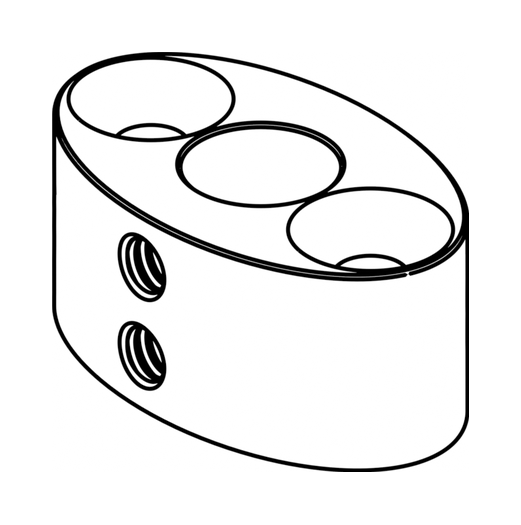
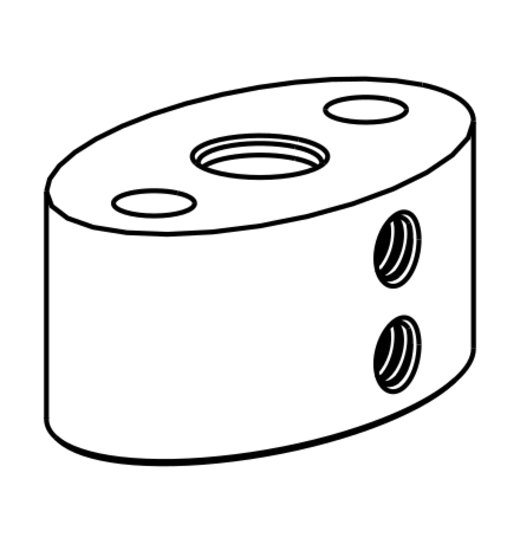
Rework rail install guide: bracket naming, mounting steps, kit
- Rename overhead/vertical brackets to underside/side brackets and
  update the kit grid descriptions and drop-down pipe count and length.
- Split fastening into wood screws, through bolts and tapped holes,
  with thickness limits for each. Add steel or aluminum 1/2" minimum.
- Make the guide work without a site plan, and drop Focal-specific
  contact language and the extra swing warning.
- Merge the set-screw and fastener post-mount checks into one item.
- Refresh the rail block and parallel bracket kit diagrams and enlarge
  the kit image area so the parts are easier to see.
- Add a /preview skill that reuses or starts a local Jekyll server and
  posts the page URL.

Changed region(s): [[0.0615, 0.0914, 0.9231, 0.9143], [0.7692, 0.2438, 0.8, 0.2743]]

diff --git a/assets/style.css b/assets/style.css
@@ -492,7 +492,7 @@ h2[id], h3[id] {
 .kit-grid { display: grid; grid-template-columns: repeat(3, 1fr); gap: 12px; margin: 10px 0 18px; }
 @media (max-width: 520px) { .kit-grid { grid-template-columns: repeat(2, 1fr); } }
 .kit-card { margin: 0; border: 1px solid var(--line); border-radius: var(--radius); overflow: hidden; background: var(--paper); display: flex; flex-direction: column; }
-.kit-img { height: 140px; display: flex; align-items: center; justify-content: center; padding: 8px; border-bottom: 1px solid var(--line-soft); }
+.kit-img { height: 172px; display: flex; align-items: center; justify-content: center; padding: 6px; border-bottom: 1px solid var(--line-soft); }
 main .kit-img img, main .kit-img img[src$=".png"] { border: 0; border-radius: 0; max-width: 100%; max-height: 100%; object-fit: contain; display: block; }
 .kit-card figcaption { display: flex; flex-direction: column; gap: 2px; padding: 8px 10px; font-size: 15px; line-height: 1.35; }
 .kit-name { font-weight: 700; }

diff --git a/_guides/rail-installation.md b/_guides/rail-installation.md
@@ -10,6 +10,7 @@ updated: "2026-10-15"
 
 
 ## On this page
+
 - [Before you start](#before-you-start)
 - [About the rails](#about-the-rails)
 - [Rail placement over the table](#rail-placement-over-the-table)
@@ -17,20 +18,21 @@ updated: "2026-10-15"
 - [Choose your mounting](#choose-your-mounting)
 - [Gather the kit and tools](#gather-the-kit-and-tools)
 - [Mount the rail](#mount-the-rail)
+- [Different mounting methods](#different-mounting-methods)
 - [Post-mount checks](#post-mount-checks)
 - [Plug in the rail](#plug-in-the-rail)
 
-{% include diagram.html src="rail-03-rail-mounted.png" caption="The finished install, overhead mount shown: the rail hangs level from two brackets on drop-down pipes." %}
+{% include diagram.html src="rail-03-rail-mounted.png" caption="The finished install, underside bracket shown: the rail hangs level from two brackets on drop-down pipes." %}
 
 ## Before you start
 
-Read [Safety & Clearances]({{ site.baseurl }}/safety-and-clearances/) first, and confirm each rail's location and length against the site plan.
+Read [Safety & Clearances]({{ site.baseurl }}/safety-and-clearances/) first. If you have a site plan, confirm each rail's location, length and height against it. If you don't, decide those three before you mount anything.
 
 - **Opening end:** heaters slide on at the end opposite the cord-exit end. Leave at least 4" past it, clear of walls, posts and beams.
 - **Power:** the rail has an 8-foot cable at the cord-exit end, so that end must face the outlet. If it can't reach, use a 12 AWG or heavier extension cord. See [Electrical & Power]({{ site.baseurl }}/electrical-power/).
 - **Helper:** a second person isn't required, but it makes lifting the rail much easier.
 
-{% include dodont.html do="Confirm the mounting surface is solid and can hold 300 lb. For steel or concrete, bring your own fasteners rated for 150 lb at each bracket." dont="Mount to anything that flexes or isn't rated for the load." %}
+{% include dodont.html do="Confirm the mounting surface is solid and can hold 300 lb. For concrete, bring your own fasteners rated for 150 lb at each bracket." dont="Mount to anything that flexes or isn't rated for the load." %}
 
 {% include warn.html text="Do not power on the rail until mounting is complete and clearances are verified." %}
 
@@ -44,9 +46,9 @@ The T-slot on top takes the mounting hardware. The heaters slide onto a separate
 
 ## Rail placement over the table
 
-Ideally the rail runs down the center of the table, so heat hits the middle of each guest's chest, not the top of their head. If the rail has to be off-center, Focal can angle the heaters toward the guests. Contact Focal to arrange it.
+Ideally the rail runs down the center of the table, so heat hits the middle of each guest's chest, not the top of their head. If the rail has to be off-center, heaters can be angled towards the guests.
 
-{% include diagram.html src="rail-placement.png" caption="Center the rail over the table. If it has to be off-center, Focal can angle the heaters toward guests." %}
+{% include diagram.html src="rail-placement.png" caption="Center the rail over the table. If it has to be off-center, heaters can be angled toward guests." %}
 
 ## Watch the video
 
@@ -60,20 +62,24 @@ Make two choices: a bracket type, then a fastening method. The tools for each ar
 
 ### Bracket type
 
-| Bracket | Use on |
-|---|---|
-| Overhead bracket | Underside of a beam, joist or ceiling |
-| Vertical bracket | Side of a beam, joist or wall |
+
+| Bracket           | Use on                       |
+| ----------------- | ---------------------------- |
+| Underside bracket | Underside of a beam or joist |
+| Side bracket      | Side of a beam or joist      |
+
 
 ### Fastening method
 
-| Method | Use when |
-|---|---|
-| Wood screws | Solid wood at least 1.5" thick, and you can't reach the far side |
-| Through bolts | You can reach the far side of the beam, post or wall, and it is no more than 2" thick. For thicker, bring longer 1/4-20 bolts. |
-| Tapped holes | Metal thick enough for a 1/4-20 tap to hold 150 lb at each bracket |
 
-Can't reach the far side, and the wood isn't solid? Don't mount here. Contact Focal. For concrete, supply your own fasteners rated for 150 lb at each bracket. None of these fit your site? See [Different mounting methods](#different-mounting-methods).
+| Method        | Use when                                                                                                                       |
+| ------------- | ------------------------------------------------------------------------------------------------------------------------------ |
+| Wood screws   | Solid wood at least 1.5" thick, and you can't reach the far side                                                               |
+| Through bolts | You can reach the far side of the beam, joist or post, and it is no more than 2" thick. For thicker, bring longer 1/4-20 bolts. |
+| Tapped holes  | Steel or aluminum at least 1/2" thick, so the tapped 1/4-20 hole supports 150 lb at each bracket                               |
+
+
+For concrete, supply your own fasteners rated for 150 lb at each bracket. None of these fit your site? See [Different mounting methods](#different-mounting-methods).
 
 ## Gather the kit and tools
 
@@ -81,11 +87,11 @@ Can't reach the far side, and the wood isn't solid? Don't mount here. Contact Fo
 
 The overhead mounting kit includes two pre-built rail block assemblies, two of each bracket type, plus fasteners for all three fastening methods. Use two brackets per rail.
 
-{% include kitgrid.html items="kit-rail-block.png|Rail block assembly|2|Fully assembled. The T-nuts, T-nut screws and set screws are already in place ;; kit-parallel-bracket.png|Overhead bracket|2|Underside of beam, joist or ceiling ;; kit-perpendicular-bracket.png|Vertical bracket|2|Side of beam, joist or wall ;; kit-set-screw.png|Set screw, 1/4-20 x 5/16\"|4|Clamps the pipe in the bracket. Thread two into each bracket ;; kit-dropdown-pipe.png|Dropdown pipe, 6 ft|1|Cut into two drops that hang the rail ;; kit-wood-screw.png|Wood screw, #12 x 2\" and 3\"|4 of each length|For wood screws ;; kit-flat-head-screw.png|Machine screw, 1/4-20 x 1.5\", 2.5\" and 3.5\"|4 of each length|For through bolts and tapped holes ;; kit-washer.png|SAE washer, 1/4\" ID|4|For through bolts ;; kit-lock-nut.png|Nylon lock nut, 1/4-20|4|For through bolts" %}
+{% include kitgrid.html items="kit-rail-block.png|Rail block assembly|2|Slides into the rail's T-slot and clamps the pipe ;; kit-parallel-bracket.png|Underside bracket|2|Mounts to the underside of a beam or joist ;; kit-perpendicular-bracket.png|Side bracket|2|Mounts to the side of a beam or joist ;; kit-set-screw.png|Set screw, 1/4-20 x 5/16\"|4|Clamps the pipe in the bracket ;; kit-dropdown-pipe.png|Drop-down pipe, 3 ft|2|Cut to length to hang the rail ;; kit-wood-screw.png|Wood screw, #12 x 2\" and 3\"|4 of each length|Fastens brackets to solid wood ;; kit-flat-head-screw.png|Machine screw, 1/4-20 x 1.5\", 2.5\" and 3.5\"|4 of each length|Fastens brackets with a nut (through bolt) or into a tapped hole ;; kit-washer.png|SAE washer, 1/4\" ID|4|Sits under the lock nut ;; kit-lock-nut.png|Nylon lock nut, 1/4-20|4|Secures a through bolt on the far side" %}
 
 ### Overhead mounting kit tools
 
-{% include kitgrid.html items="kit-tool-l-wrench-1-8.png|1/8\" L-wrench|1|Set screws ;; kit-tool-l-wrench-t30.png|T30 L-wrench|1|Machine screws, T-nut screws ;; kit-tool-t25-bit.png|T25 screwdriver bit|1|Wood screws" %}
+{% include kitgrid.html items="kit-tool-l-wrench-1-8.png|1/8\" L-wrench|1|Tightens set screws ;; kit-tool-l-wrench-t30.png|T30 L-wrench|1|Tightens machine screws and T-nut screws ;; kit-tool-t25-bit.png|T25 screwdriver bit|1|Drives wood screws" %}
 
 ### What to bring
 
@@ -101,35 +107,39 @@ Bring these for every install:
 
 Then add the tools for the choices you made:
 
-| If you chose | Also bring |
-|---|---|
-| Overhead bracket | Nothing extra |
-| Vertical bracket | 3/8" support-shaft bit |
-| Wood screws | Pilot bit for #12 screws (size depends on your wood, so check a pilot hole chart) |
-| Through bolts | Through-hole bit for 1/4-20 bolts<br>7/16" wrench or socket |
-| Tapped holes | 1/4-20 tap<br>Matching tap-drill bit |
+
+| If you chose     | Also bring                                                   |
+| ---------------- | ------------------------------------------------------------ |
+| Underside bracket | Nothing extra                                                |
+| Side bracket | 3/8" drill bit for support shaft                             |
+| Wood screws      | Drill bit for #12 screw pilot holes                          |
+| Through bolts    | Drill bit for 1/4-20 through holes<br>7/16" wrench or socket |
+| Tapped holes     | 1/4-20 tap<br>Drill bit for 1/4-20 tap                       |
 
 
 ## Mount the rail
 
-<!-- 2" max for through bolts: 3.5" screw - bracket (19.69 mm overhead, 25 mm vertical) - SAE washer (~0.065") - nylon lock nut (~0.33"). Gives 2.33" overhead, 2.12" vertical; rounded down. Washer/nut thickness are typical values, not measured. -->
+<!-- 2" max for through bolts: 3.5" screw - bracket (19.69 mm underside, 25 mm side) - SAE washer (~0.065") - nylon lock nut (~0.33"). Gives 2.33" underside, 2.12" side; rounded down. Washer/nut thickness are typical values, not measured. -->
+
+<!-- 1/2" min for tapped holes: 1.5" screw - bracket (0.775" underside, 0.984" side) leaves 0.73" / 0.52" of screw in the metal. 1/2" gives ~10 threads of engagement. Unverified against a pull test. -->
+
 <!-- Bit sizes are deliberately not specified except the 3/8" support-shaft bit and the 7/16" nut wrench -->
+
 <!-- Through-bolt sequence (screw through bracket, washer + lock nut on far side) is unconfirmed -->
-{% include stepcols.html number="1" title="Fasten the brackets" body="Fasten both brackets, spaced to match where the rail blocks will sit, about 12\" in from each end of the rail. The diagrams show wood screws. Use the longest screw that stays in the wood without poking through. Tighten with the T25 bit." cols="Overhead bracket|rail-02a-screw-bracket.png|Drill a pilot hole at each bracket hole, then fasten the overhead bracket with one screw in each hole. ;; Vertical bracket|rail-02b-drill-hole.png,rail-02b-screw-bracket.png|Using the support-shaft bit, drill a hole 1/2\" deep. It takes the bracket's support shaft only.//Drill a pilot hole at each bracket hole, then fasten the vertical bracket flat with one screw in each hole." %}
 
-{% include step.html variant="true" title="Through bolts instead of wood screws" body="Use this in place of the wood screws in step 1. At each bracket hole, drill all the way through with the through-hole bit. Pass a machine screw through the bracket and the beam, then add a washer and lock nut on the far side. Pick a screw long enough that its end is at least flush with the nut. Tighten with the T30 L-wrench, holding the nut with the 7/16\" wrench or socket." %}
+{% include stepcols.html number="1" title="Fasten the brackets with wood screws" body="Fasten both brackets about 12\" in from each end of the rail, spaced to match where the rail blocks will sit. Use the 3\" screw unless it would poke through the back of the wood, then use the 2\"." cols="Underside bracket|rail-02a-screw-bracket.png|Drill a pilot hole at each bracket hole. Fasten the underside bracket with one screw in each hole, using the T25 bit. ;; Side bracket|rail-02b-drill-hole.png,rail-02b-screw-bracket.png|Using the support-shaft bit, drill a hole 1/2\" deep. It takes the bracket's support shaft only.//Drill a pilot hole at each bracket hole. Fasten the side bracket flush against the surface with one screw in each hole, using the T25 bit." %}
 
-{% include step.html variant="true" title="Tapped holes instead of wood screws" body="Use this in place of the wood screws in step 1. At each bracket hole, drill through the metal with the tap-drill bit, then tap it with the 1/4-20 tap. Thread a machine screw through the bracket and into the tapped hole. No washer or nut. Pick a screw long enough to thread fully into the tapped hole. Tighten with the T30 L-wrench." %}
+{% include step.html variant="true" title="Through bolts instead of wood screws" body="Use when you can reach the far side. For the side bracket, still drill the 1/2\" support-shaft hole first. Drill through the beam at each bracket hole, then bolt through with a machine screw, washer and lock nut. Use the 2.5\" screw for a beam up to 1\" thick, or the 3.5\" up to 2\". Tighten with the T30 L-wrench while holding the nut with the 7/16\" wrench. Thread the nut on fully." %}
 
-{% include step.html number="2" title="Insert the pipes" body="Fit a pipe in each bracket. Cut both pipes to the same length so the rail hangs level at the site plan height. Measure from the top of the bracket down to the rail height on the site plan, then subtract 2.25\" for the rail. The pipe runs all the way through the bracket, so the bracket's height doesn't change the length. Deburr the cuts." captions="Slide the dropdown pipe into the bracket (overhead bracket shown).|Tighten both set screws with the 1/8\" L-wrench, using the full handle until they stop." diagram="rail-02a-insert-pipe.png,rail-02a-set-screws.png" grid="true" %}
+{% include step.html variant="true" title="Tapped holes instead of wood screws" body="Use for steel or aluminum at least 1/2\" thick. For the side bracket, still drill the 1/2\" support-shaft hole first. Drill each bracket hole with the tap-drill bit, tap it with the 1/4-20 tap, and thread in a 1.5\" machine screw with the T30 L-wrench." %}
 
-{% include step.html number="3" title="Slide the rail blocks onto the rail" body="Keep the T-nut screws on top loose so the blocks can slide, and make sure the set screws are backed out enough for the pipe to fit." captions="Slide a rail block into the T-slot, set screws facing away from diners.|Use two per rail, spaced to match the brackets you installed above." diagram="rail-01-slide-block.png,rail-01-blocks-placed.png" %}
+{% include step.html number="2" title="Insert the pipes" body="Fit a pipe in each bracket. Cut both pipes to the same length so the rail hangs level at the planned height, at least the minimum in Safety & Clearances. Measure from the top of the bracket down to your planned rail height (from the site plan, if you have one), then subtract 2.25\" for the rail. The pipe runs all the way through the bracket, so the bracket's height doesn't change the length. Deburr the cuts." captions="Slide the drop-down pipe into the bracket (underside bracket shown).|Tighten both set screws with the 1/8\" L-wrench, using the full handle until they stop." diagram="rail-02a-insert-pipe.png,rail-02a-set-screws.png" grid="true" %}
 
-{% include step.html number="4" title="Attach the rail to the pipes" after="Make sure the pipes hang straight down and give the rail a shake to confirm it's solid." captions="Lift the rail up under the pipes with a second person.|Slide each block under its pipe, then lift so the pipe seats in the block.|Tighten the block's set screws with the 1/8\" L-wrench, using the full handle until they stop.|Tighten the two T-nut screws on top with the T30 L-wrench." diagram="rail-03-raise-rail.png,rail-03-rail-mounted.png,rail-03-set-screws.png+rail-03-tnut-screws.png" %}
+{% include step.html number="3" title="Slide the rail blocks onto the rail" body="Keep the T-nut screws on top loose so the blocks can slide, and make sure the set screws are backed out enough for the pipe to fit." captions="Slide a rail block into the T-slot, set screws facing away from guests.|Use two per rail, spaced to match the brackets you installed above." diagram="rail-01-slide-block.png,rail-01-blocks-placed.png" %}
 
-{% include step.html number="5" title="Re-check all set screws" body="Go back to every mount and re-tighten each set screw with the 1/8\" L-wrench, using the full handle until it stops."%}
+{% include step.html number="4" title="Attach the rail to the pipes" after="Make sure the pipes hang straight down and give the rail a shake to confirm it's solid." captions="Lift the rail up under the pipes, ideally with a second person.|Slide each block under its pipe, then lift so the pipe seats in the block.|Tighten the block's set screws with the 1/8\" L-wrench, using the full handle until they stop.|Tighten the two T-nut screws on top with the T30 L-wrench." diagram="rail-03-raise-rail.png,rail-03-rail-mounted.png,rail-03-set-screws.png+rail-03-tnut-screws.png" %}
 
-{% include warn.html text="Under-tightened set screws will allow the rail to drop under load." %}
+{% include step.html number="5" title="Re-check all set screws" body="Go back to every mount and re-tighten each set screw with the 1/8\" L-wrench, using the full handle until it stops." %}
 
 ## Different mounting methods
 
@@ -137,20 +147,19 @@ Focal offers mounting hardware, but off-the-shelf hardware also works through th
 
 - A threaded rod as a drop-down
 - A U-bolt to attach unistrut to a pipe
-- Attaching the rail directly to a wood beam with through bolts, without a drop-down, using the longer 1/4-20 machine screws with SAE washers and nylon lock nuts
+- Attaching the rail directly to a wood beam with through bolts, without a drop-down, using 1/4-20 machine screws and SAE washers
 - An L-bracket to unistrut when rails run perpendicular to a wall
 
 ## Post-mount checks
 
-{% include checklist.html items="Every set screw re-tightened with the full handle of the 1/8\" L-wrench, on every bracket and block | All other fasteners fully tightened | Pipes plumb and rail level | Rail height and location match the site plan | All clearances in Safety & Clearances are met | Rail swings no more than 1/4\" from rest in either direction" %}
+{% include checklist.html items="Every fastener fully tightened, with set screws re-tightened using the full handle of the 1/8\" L-wrench, and the rail swings no more than 1/4\" from rest in either direction | Pipes plumb and rail level | Rail height and location match the site plan or your planned layout | All clearances in Safety & Clearances are met" %}
 
 {% include warn.html text="Under-tightened set screws will allow the rail to drop under load." %}
 
-{% include warn.html text="If the rail swings more than 1/4\", add aircraft cable or bracketing to stiffen the assembly before loading heaters." %}
 
 ## Plug in the rail
 
 {% include dodont.html do="Plug into a dedicated, GFCI-protected outdoor outlet on its own circuit. If the cable can't reach, use an extension cord rated 12 AWG or heavier." dont="Use a power strip, a lighter extension cord, or a circuit shared with other loads." %}
 
-Run the cable along the rail, up the mounting hardware, or along parklet features so it stays out of sight from diners and the street. Plug into the outlet, then turn on the rail switch. It's on the cord-exit end, underneath the rail. Secure any slack with clips or ties so nothing hangs below the bottom of the rail.
+Run the cable along the rail, up the mounting hardware, or along posts and beams so it stays out of sight from guests. Plug into the outlet, then turn on the rail switch. It's on the cord-exit end, underneath the rail. Secure any slack with clips or ties so nothing hangs below the bottom of the rail.
 

diff --git a/.agents/skills/preview/SKILL.md b/.agents/skills/preview/SKILL.md
@@ -1,0 +1,37 @@
+---
+name: preview
+description: Preview the site on a local Jekyll server and post the page URL. Use when the user says "preview", "show me", "let me see it", or asks to view a page or guide locally.
+argument-hint: "[page path, e.g. guides/rail-installation]"
+---
+
+# Preview the site
+
+"Preview" means the local Jekyll server, never an Artifact.
+
+## Steps
+
+1. **Reuse a running server for this worktree.** Other worktrees run their own Jekyll servers, so match on working directory, not just process name:
+
+   ```bash
+   for pid in $(pgrep -f 'jekyll serve'); do
+     [ "$(readlink /proc/$pid/cwd)" = "$PWD" ] && echo "$pid $(tr '\0' ' ' < /proc/$pid/cmdline)"
+   done
+   ```
+
+   If one is found, read its `--port` and skip to step 3. Jekyll's auto-regeneration picks up edits, so no restart is needed.
+
+2. **Otherwise start one.** Pick a free port (4000-4999 range; check with `ss -ltn`) and run in the background so it survives the turn:
+
+   ```bash
+   bundle exec jekyll serve --baseurl "" --port <PORT> --livereload
+   ```
+
+   Fall back to plain `jekyll serve` if there is no Gemfile. Always pass `--baseurl ""`; `_config.yml` sets `baseurl: "/"`, which breaks asset paths locally. Wait until the log shows `Server running` (use Monitor or an until-loop) before posting the URL. If the build fails, report the error instead of a URL.
+
+3. **Post the URL.** Always state the full page URL, e.g. `http://localhost:<PORT>/rail-installation/`. If the user gave a page argument, link that page; otherwise link the page most recently edited this session, or the root. Never stop the server afterwards. Leave it running.
+
+## Notes
+
+- Guides live in `_guides/` and are served at `/<name>/` (collection permalink is `/:name/`, not `/guides/<name>/`). Top-level pages (`fixit.html`, `electrician.html`, etc.) are served at `/<name>.html`.
+- Light mode only; there is no dark-mode variant to check.
+- Do not take screenshots or open a browser unless the user asks.
